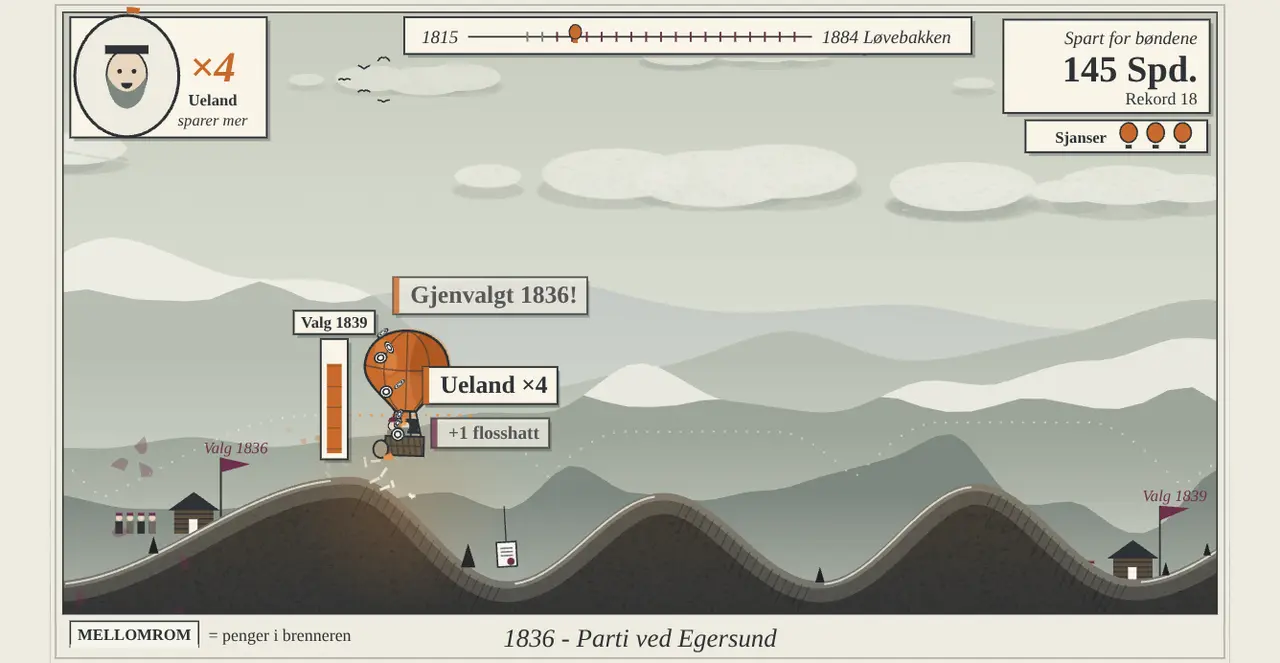
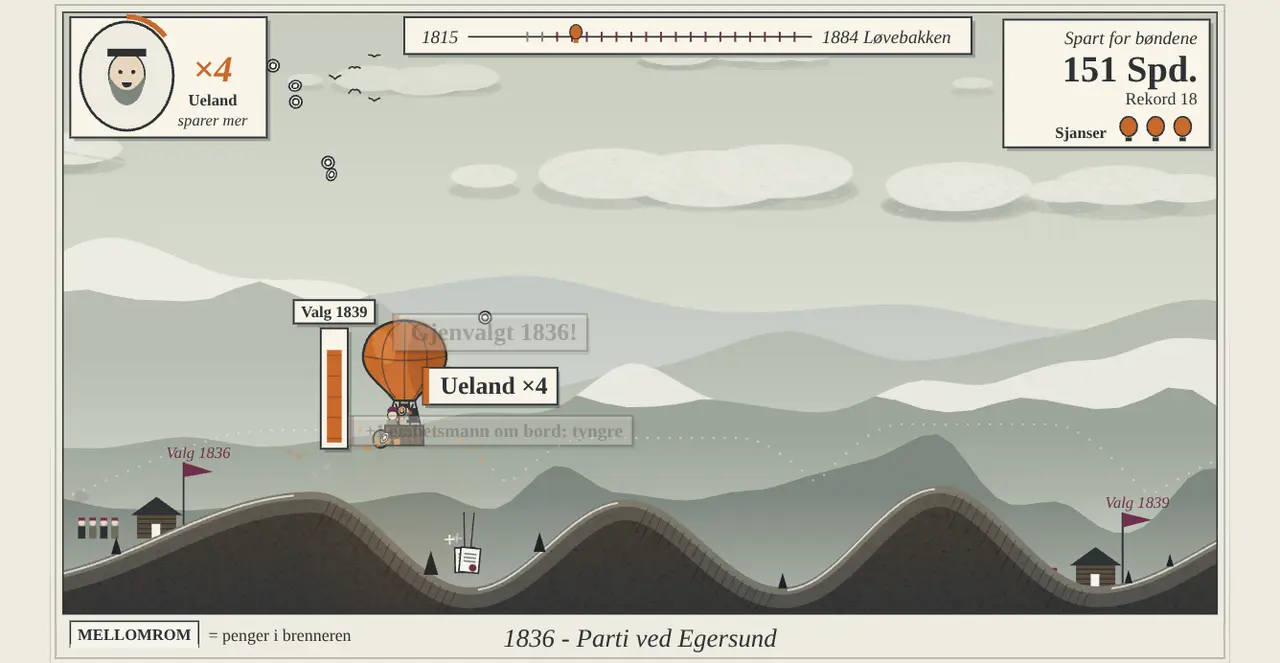
wip: pengeballongen forbedring 2
Claude-Session: https://claude.ai/code/session_019Juajf51GZzuqtF6gS9QzY

diff --git a/src/components/microgames/pengeballongen/hud.ts b/src/components/microgames/pengeballongen/hud.ts
@@ -82,7 +82,9 @@ export function tegnHud(ctx: CanvasRenderingContext2D, g: Game, fx: Fx, v: HudVa
     }
 
     // Oppe til høyre: Spart, stor og rolig på et kort. Spretter når mynter lander.
-    kort(ctx, 776, 16, 168, 76);
+    // Ett kort: Spart, rekord og sjansene nederst.
+    const medSjanser = g.år >= T.penger.førsteEkteValg - 0.5;
+    kort(ctx, 776, 16, 168, medSjanser ? 104 : 76);
     ctx.textAlign = 'right';
     ctx.fillStyle = P.kritt;
     ctx.font = `italic 15px ${FONT}`;
@@ -99,7 +101,7 @@ export function tegnHud(ctx: CanvasRenderingContext2D, g: Game, fx: Fx, v: HudVa
     ctx.fillStyle = P.kritt;
     ctx.fillText(v.rekord && !v.øving ? `Rekord ${spd(v.rekord)}` : '', 934, 85);
     // Sjansene: små ballonger under kortet (fra det første ekte valget).
-    if (g.år >= T.penger.førsteEkteValg - 0.5) sjanser(ctx, g, fx, tid);
+    if (medSjanser) sjanser(ctx, g, fx, tid);
 
     tidslinje(ctx, g);
     if (g.år >= T.ganger.fra - 0.3) portrett(ctx, g, fx, tid);
@@ -120,22 +122,20 @@ function sjanser(ctx: CanvasRenderingContext2D, g: Game, fx: Fx, tid: number) {
     ctx.textAlign = 'right';
     ctx.font = `bold 13px ${FONT}`;
     ctx.fillStyle = P.kritt;
-    kort(ctx, x0 - 74, 98, n * 22 + 82, 26);
-    ctx.fillStyle = P.kritt;
-    ctx.fillText('Sjanser', x0 - 8, 116);
+    ctx.fillText('Sjanser', x0 - 8, 112);
     for (let i = 0; i < n; i++) {
         const har = i < g.sjanser;
         const cx = x0 + 10 + i * 22;
         const puls = !har && i === g.sjanser ? Math.max(0, fx.blink) : 0;
         ctx.beginPath();
-        ctx.ellipse(cx, 108 - puls * 3, 7, 8, 0, 0, Math.PI * 2);
+        ctx.ellipse(cx, 103 - puls * 3, 7, 8, 0, 0, Math.PI * 2);
         ctx.fillStyle = har ? P.silke : 'transparent';
         if (har) ctx.fill();
         ctx.strokeStyle = har ? P.kritt : P.halv;
         ctx.lineWidth = 1.3;
         ctx.stroke();
         ctx.fillStyle = har ? P.kritt : P.halv;
-        ctx.fillRect(cx - 2.5, 118, 5, 3);
+        ctx.fillRect(cx - 2.5, 112, 5, 3);
     }
     void tid;
 }
@@ -158,6 +158,15 @@ function budsjett(ctx: CanvasRenderingContext2D, g: Game, fx: Fx, tid: number) {
     const rist = fare ? Math.sin(tid * 30) * 1.2 : 0;
     ctx.translate(rist, 0);
     kort(ctx, x - 3, y - 3, w + 6, h + 6);
+    // Bondetinget 1833: baren gløder i to år - bøndene har tatt over pengene.
+    const bonde = Math.max(0, 1 - (g.år - T.penger.førsteEkteValg) / 2);
+    if (bonde > 0 && g.år >= T.penger.førsteEkteValg) {
+        ctx.strokeStyle = P.silke;
+        ctx.lineWidth = 3 + 3 * Math.sin(tid * 10) ** 2;
+        ctx.globalAlpha = inn * bonde;
+        ctx.strokeRect(x - 7, y - 7, w + 14, h + 14);
+        ctx.globalAlpha = inn;
+    }
     // Fyllet: lyst og trygt, karmin når det nesten er tomt.
     const fh = (h - 4) * igjen;
     ctx.fillStyle = fare ? P.karmin : P.silke;
@@ -183,7 +192,7 @@ function budsjett(ctx: CanvasRenderingContext2D, g: Game, fx: Fx, tid: number) {
     }
     // Lappen over: når neste valg er.
     const neste = g.ter.valg[g.nesteValg];
-    const etikett = neste ? `Valg ${neste.år}` : 'Budsjett';
+    const etikett = bonde > 0.4 && g.år >= T.penger.førsteEkteValg ? 'Bondetinget' : neste ? `Valg ${neste.år}` : 'Budsjett';
     ctx.font = `bold 13px ${FONT}`;
     const ew = ctx.measureText(etikett).width + 12;
     const ex = x + w / 2 - ew / 2;

diff --git a/src/components/microgames/pengeballongen/juice.ts b/src/components/microgames/pengeballongen/juice.ts
@@ -3,7 +3,7 @@
 
 import { bakke } from './terrain';
 import { blink, rist, slipp, type Fx } from './fx';
-import { iBåndet, klaring } from './rules';
+import { iBåndet, iVeto, klaring } from './rules';
 import type { Lyd } from './sound';
 import type { Game, Hendelse } from './state';
 import { TUNING } from './tuning';
@@ -53,6 +53,15 @@ export function juice(g: Game, fx: Fx, j: Juice, lyd: Lyd, dt: number, landet: n
     }
     if (g.varme > 0.3 && Math.random() < g.varme * 0.5) {
         slipp(fx, 'glo', BX + r(-4, 4), y - 30, { vx: r(-30, 10), vy: r(-40, -10), maks: 0.5 });
+    }
+
+    // Kongens veto: nei-brev blåser mot ballongen fra høyre (motvinden).
+    if (iVeto(g) && Math.random() < dt * 14) {
+        slipp(fx, 'papir', 980, r(40, 420), { vx: r(-620, -420), vy: r(60, 140), maks: 2, vr: r(-6, 6) });
+    }
+    // Ueland over ×5: fartsstriper bak ballongen.
+    if (g.ganger > 5 && Math.random() < 0.6) {
+        slipp(fx, 'gnist', BX - 30, y - r(10, 90), { vx: r(-700, -500), vy: r(-10, 10), maks: 0.25, str: 1.4 });
     }
 
     // Skraping: gnister fra lyngen under kurven, flere jo større gangeren er.
@@ -123,6 +132,11 @@ export function påHendelse(h: Hendelse, g: Game, fx: Fx, lyd: Lyd) {
             if (h.ganger > h.fra) {
                 fx.gangerSprett = 1;
                 lyd.ganger(h.ganger);
+                if (h.ganger > 5) {
+                    lyd.under();
+                    rist(fx, 3);
+                    blink(fx, 0.25, P.silke);
+                }
                 for (let i = 0; i < h.ganger + 1; i++)
                     slipp(fx, 'mynt', BX + r(-10, 10), y - 10, { maks: r(0.5, 0.8), mål: { x: 132, y: 62 } });
             } else lyd.gangerNed();
@@ -218,6 +232,20 @@ export function påHendelse(h: Hendelse, g: Game, fx: Fx, lyd: Lyd) {
                 slipp(fx, 'papir', BX + r(-8, 8), y - 10, { maks: r(0.5, 0.8), mål: TELLER, vr: 8 });
             for (let i = 0; i < 8; i++)
                 slipp(fx, 'gnist', BX + r(-10, 10), y, { vx: r(-200, 200), vy: r(-260, -40), maks: 0.4 });
+            break;
+        case 'bondeting':
+            lyd.valg();
+            blink(fx, 0.4, P.silke);
+            fx.sprett = 1;
+            for (let i = 0; i < 12; i++)
+                slipp(fx, 'mynt', BX + r(-10, 10), y - 30, { maks: r(0.6, 0.9), mål: TELLER });
+            break;
+        case 'veto':
+            if (!h.slutt) {
+                lyd.stemtUt();
+                rist(fx, 6);
+                blink(fx, 0.35, P.karmin);
+            } else lyd.vinker();
             break;
         case 'roret':
             lyd.funn();

diff --git a/src/components/microgames/pengeballongen/tuning.ts b/src/components/microgames/pengeballongen/tuning.ts
@@ -16,8 +16,9 @@ export const TUNING = {
         slutt: 1884.5,
         /** Riksretten er over: fra her går tida sakte, og eleven har roret. */
         rorFra: 1884,
-        /** Sekunder per år i rorstrekket (1884,0-1884,5 = ca. 8 s). */
-        rorTempo: 16,
+        /** Sekunder per år i rorstrekket (1884,0-1884,5 = ca. 15 s): siste etappe der eleven
+         * styrer ned mot Løvebakken. */
+        rorTempo: 30,
     },
 
     // Roret etter riksretten: pil ned / S / trykk lavt styrer ballongen ned, gratis.
@@ -31,7 +32,7 @@ export const TUNING = {
         /** Stemmene i dalene: verdt så mye ganger Ueland-gangeren. */
         stemme: 40,
         /** Dalene i rorstrekket: antall, dybde (px under kammen) og kammen. */
-        daler: 3,
+        daler: 5,
         kamY: 360,
         dalY: 490,
         /** Fra kanten av kammen til bunnen av dalen (px vei): bratt. */
@@ -97,6 +98,8 @@ export const TUNING = {
     penger: {
         /** Spesidaler per sekund du holder (før kongeveiens flosshatter gjør brenneren dyrere). */
         perSek: 10,
+        /** Før Bondetinget i 1833 bestemte embetsmennene: brenneren koster mer (Spd/s). */
+        førBonde: 14,
         /** Spart per sekund når du slipper før Ueland kommer om bord (1833). */
         førUeland: 6,
         /** Spart per sekund når du slipper over nær-båndet fra 1833. I båndet: perSek x gangeren. */
@@ -129,8 +132,12 @@ export const TUNING = {
         trinn: 2,
         /** Over båndet faller gangeren ett trinn per så mange sekunder. */
         fall: 0.5,
-        maks: 5,
+        maks: 7,
     },
+
+    // Kongens veto: én valgperiode midt i runden blåser kongens nei-brev mot ballongen.
+    // Motvind = ballongen synker fortere, så hvert sekund med brenneren teller mer.
+    veto: { fra: 1854.5, til: 1860, synk: 30 },
 
     // Formene i hver valgperiode fra 1833 (rekkefølgen står i levels.ts).
     form: {
@@ -180,11 +187,11 @@ export const TUNING = {
     // Rangtrinn etter sparte spesidaler (stigende).
     ranger: [
         [0, 'Vararepresentant'],
-        [400, 'Bonderepresentant'],
-        [900, 'Sparebonde'],
-        [1500, 'Ueland-elev'],
-        [2200, 'Dalanes stolthet'],
-        [3000, 'Ueland selv'],
+        [500, 'Bonderepresentant'],
+        [1100, 'Sparebonde'],
+        [1900, 'Ueland-elev'],
+        [2800, 'Dalanes stolthet'],
+        [3800, 'Ueland selv'],
     ] as [number, string][],
 };
 

diff --git a/src/components/microgames/pengeballongen/coach.ts b/src/components/microgames/pengeballongen/coach.ts
@@ -44,7 +44,7 @@ export function coachHendelse(h: Hendelse, g: Game, c: Coach) {
             } else if (h.år === TUNING.penger.førsteEkteValg) {
                 text.banner('Bondestortinget!', P.silke);
             } else ved(`Gjenvalgt ${h.år}!`, -120, P.silke, true);
-            if (h.hatt) ved('+1 flosshatt', -40, P.karmin);
+            if (h.hatt) ved('+1 embetsmann om bord: tyngre', -40, P.karmin);
             break;
         }
         case 'funn': {
@@ -62,7 +62,12 @@ export function coachHendelse(h: Hendelse, g: Game, c: Coach) {
             break;
         case 'ganger':
             if (h.ganger > h.fra) {
-                ved(`Ueland ×${h.ganger}`, -60, P.silke, h.ganger >= 4, 1);
+                if (h.ganger > 5) ved(`Ueland ×${h.ganger}! Full fart!`, -60, P.silke, true, 1.4);
+                else ved(`Ueland ×${h.ganger}`, -60, P.silke, h.ganger >= 4, 1);
+                if (!sagt.has('hvem')) {
+                    sagt.add('hvem');
+                    ved('Ueland: bondeleder som sa nei til sløsing', -100, P.silke, false, 3.2);
+                }
                 if (h.ganger === 2)
                     text.beatOnce('ueland', BEAT.ueland.tittel, BEAT.ueland.tekst, {
                         at: c.vedBallong(-60),
@@ -78,6 +83,17 @@ export function coachHendelse(h: Hendelse, g: Game, c: Coach) {
                 sagt.add('sjanse');
                 text.lesson('sjanse', SJANSE_LÆRDOM, 1.5);
             }
+            break;
+        case 'bondeting':
+            ved('Bøndene har flertall!', -125, P.silke, true, 2.8);
+            ved(`Brenneren billigere: ${TUNING.penger.førBonde} → ${TUNING.penger.perSek} Spd. i sekundet`, -85, P.silke, false, 2.8);
+            break;
+        case 'veto':
+            if (!h.slutt) {
+                text.banner('Kongens veto!', P.karmin);
+                ved('Kongen stopper lovene: motvind!', -120, P.karmin, true, 2.6);
+                ved('Ballongen synker fortere - spar på brenneren', -80, P.karmin, false, 2.6);
+            } else ved('Vetoet er over: vinden løyer', -110, P.silke, true, 1.8);
             break;
         case 'stemme':
             ved(`Stemme! +${h.verdi}`, -60, P.silke, true, 1);

diff --git a/src/components/microgames/pengeballongen/rules.ts b/src/components/microgames/pengeballongen/rules.ts
@@ -29,7 +29,15 @@ export function synk(g: Game): number {
     const l = T.løft;
     const u = Math.min(1, Math.max(0, (g.år - T.fart.fraÅr) / (T.fart.tilÅr - T.fart.fraÅr)));
     const rolig = Math.min(1, l.rolig.fra + ((1 - l.rolig.fra) * (g.t - g.rolig)) / l.rolig.sekunder);
-    return (l.synkFra + (l.synkTil - l.synkFra) * u + g.hatter * l.perHatt) * rolig;
+    return (l.synkFra + (l.synkTil - l.synkFra) * u + g.hatter * l.perHatt + vetoSynk(g)) * rolig;
+}
+
+/** Kongens veto er i gang (motvind). */
+export const iVeto = (g: Game) => g.år >= T.veto.fra && g.år < T.veto.til;
+
+/** Ekstra synk fra motvinden under kongens veto. */
+function vetoSynk(g: Game): number {
+    return iVeto(g) ? T.veto.synk : 0;
 }
 
 /** Stigefart med full varme. Lavere jo høyere opp (tynn luft): å fly høyt koster mer. */
@@ -87,7 +95,7 @@ export const iBåndet = (g: Game) =>
  * (bondeflertallet) gjør den billigere.
  */
 export const kostnad = (g: Game) =>
-    T.penger.perSek *
+    (g.år < T.penger.førsteEkteValg ? T.penger.førBonde : T.penger.perSek) *
     (1 + T.veiskille.kongeveiKostnad * g.kongeHatter) *
     (g.olaboka ? 1 - T.penger.olaboka : 1);
 

diff --git a/src/components/microgames/pengeballongen/scene.ts b/src/components/microgames/pengeballongen/scene.ts
@@ -385,10 +385,18 @@ export function tegnHindre(ctx: CanvasRenderingContext2D, g: Game, tid: number) 
             ctx.lineTo(cx, kn.topp - 26);
             ctx.stroke();
             krone(ctx, cx, kn.topp - 32, 1.1);
-            ctx.fillStyle = P.karmin;
-            ctx.font = `italic 14px ${FONT}`;
+            // Skiltet: solid papir, mørk tekst (ikke blek kursiv mot himmelen).
+            const skilt = 'Kongeveien: +1 embetsmann';
+            ctx.font = `bold 14px ${FONT}`;
+            const sw = ctx.measureText(skilt).width + 14;
+            ctx.fillStyle = '#f8f4e8';
+            ctx.fillRect(cx - sw / 2, kn.topp - 66, sw, 22);
+            ctx.strokeStyle = P.karmin;
+            ctx.lineWidth = 1.5;
+            ctx.strokeRect(cx - sw / 2, kn.topp - 66, sw, 22);
+            ctx.fillStyle = P.kritt;
             ctx.textAlign = 'center';
-            ctx.fillText('Kongeveien: +1 flosshatt', cx, kn.topp - 48);
+            ctx.fillText(skilt, cx, kn.topp - 50);
         } else {
             const fall = Math.max(0, (g.x - (kn.x0 - 520)) / 220);
             if (fall < 2.2) {

diff --git a/src/components/microgames/pengeballongen/game.ts b/src/components/microgames/pengeballongen/game.ts
@@ -82,8 +82,14 @@ function slutt(g: Game, årsak: Årsak, brukt?: number) {
 
 export function update(g: Game, dt: number) {
     if (g.mode !== 'play' || dt <= 0) return;
+    const førÅr = g.år;
     g.t += dt;
     g.år = årFor(g.t);
+    // Regelskiftene midt i runden: Bondetinget (brenneren billigere) og kongens veto (motvind).
+    const krysset = (år: number) => førÅr < år && g.år >= år;
+    if (krysset(T.penger.førsteEkteValg)) g.hendelser.push({ slag: 'bondeting' });
+    if (krysset(T.veto.fra)) g.hendelser.push({ slag: 'veto', slutt: false });
+    if (krysset(T.veto.til)) g.hendelser.push({ slag: 'veto', slutt: true });
     g.x = veiVed(g.t);
 
     const b = brettFor(g.år);

diff --git a/src/components/microgames/pengeballongen/state.ts b/src/components/microgames/pengeballongen/state.ts
@@ -17,6 +17,8 @@ export type Hendelse =
     | { slag: 'sjanse'; årsak: Årsak; år: number; tilbake: number; straff: number }
     | { slag: 'stemme'; verdi: number }
     | { slag: 'roret' }
+    | { slag: 'bondeting' }
+    | { slag: 'veto'; slutt: boolean }
     | { slag: 'landet' };
 
 /** Det som lagres ved hvert valgflagg fra 1833, så en ny sjanse starter der. */

diff --git a/docs/microgames/briefer/pengeballongen.md b/docs/microgames/briefer/pengeballongen.md
@@ -462,3 +462,38 @@ ikke prøvd av en ekte elev. (3) Flink og nybegynner er langt fra hverandre (303
 elev ligger trolig midt imellom. (4) Rangene ble satt for runde 6; flink når nå «Ueland selv» (3000).
 (5) Likheten (0,46) er fortsatt ikke langt under grensen på 0,50.
 
+### Forbedring 2 (etter vurdering runde 2: Gøy 3, Utseende 4, Lærerikt 3, Lesbart 4, Unikt 4)
+
+Gøy sto på 3 i to runder, så kjerneløkka er endret med regelskifter midt i runden:
+(1) Bondetinget 1833 endrer spillet synlig: brenneren går fra 14 til 10 Spd. i sekundet (før 1833
+bestemte embetsmennene), med to solide lapper, mynter som flyr til Spart, blink og en budsjettbar
+som gløder med etiketten «Bondetinget». (2) Kongens veto 1854,5-1860 er det ene nye elementet
+halvveis: motvind (+30 px/s synk) og nei-brev som blåser mot ballongen fra høyre, banner og lapp
+«Kongen stopper lovene: motvind!». Eleven må fyre mer akkurat da, så budsjettet blir trangere.
+(3) Rorstrekket er nå ca. 15 s (rorTempo 16 -> 30) med fem daler i stedet for tre; filmbildet ved
+110 s viser nå roret i bruk (PIL NED, stemme i dalen). (4) Ueland-gangeren går til ×7: over ×5
+kommer fartsstriper bak ballongen, ekstra lyd, lite rykk, blink og lappen «Ueland ×7! Full fart!».
+Tekst og HUD: «flosshatt» er byttet med «embetsmann» (skiltet over kongeveien er nå et solid
+papirskilt med mørk tekst i stedet for blek kursiv), én linje om Ueland første gang ×n vises
+(«Ueland: bondeleder som sa nei til sløsing»), og sjansene står inne i Spart-kortet (ett kort).
+Rangene er hevet (500/1100/1900/2800/3800) fordi flink nå tjener mer.
+
+Reglene eleven må huske er fortsatt tre: hold = betal og stig, budsjettet må holde til valget, gli
+tett = Ueland. Bondetinget og vetoet er ting som skjer med eleven, ikke nye taster.
+
+Feel-lista: 1-4 var på plass før. Styrket nå: 1 (ganger over ×5 svarer med lyd, rykk og blink),
+3 (nei-brevene kommer inn fra høyre og blåser ut), 4 (Bondetinget sender mynter til Spart).
+
+Simulering (200 runder): grønn. flink 100 %, median 4262 (p10 3995, p90 4344); nybegynner 19 %,
+median 466; sløseren 0 % (23), gniten/passiv 18, tilfeldig 39. 34,2 valg per minutt, press
+0,30 -> 0,62 -> 0,74. Selvspill: flink vant med 2655 (brukte én sjanse sent, runden 215 s ekte tid),
+Chromebook JS p95 11,3 ms, alle porter grønne. Scene-audit ren. Likhet: petisjonen-3d 0,47.
+
+Prøvd som IKKE virket / valgt bort: å korte ned midten for å få roret inn ved 80 s ville flyttet hele
+terrenget og budsjettet per periode; i stedet ble rorstrekket lengre, så runden når filmbildet ved
+110 s. Uvær 1848 ble valgt bort til fordel for vetoet, som hører til embetsmannsstaten.
+
+Kjente svakheter: (1) Bondetinget ved 33 s spilltid havner mellom filmbildene (20 og 35 s), så
+vurdereren ser det ikke på filmen. (2) Vetoet er bare ekstra synk; det kan føles som «tyngre» mer enn
+som et nytt valg. (3) Flink og nybegynner er fortsatt langt fra hverandre (4262 mot 466). (4) Sverdrup-
+venner/riksrett-port fra vurderingen er ikke bygd. (5) Likheten 0,47 er nær grensen 0,50.

diff --git a/src/components/microgames/pengeballongen/KART.md b/src/components/microgames/pengeballongen/KART.md
@@ -45,6 +45,13 @@ Komponent: `../Pengeballongen.tsx` (skall, input, lagring, meny/pause/slutt-skje
     ballongen (`ror()`), brenneren svarer raskere (`fly()`), og tre bratte daler har en stemme
     i bunnen (40 x gangeren). Uten roret synker ballongen for sakte til å nå dem.
 
+11. Bondetinget (hendelse `bondeting` ved 1833): brenneren går fra `penger.førBonde` (14) til
+    `penger.perSek` (10) Spd/s, budsjettbaren gløder i to år med etiketten «Bondetinget».
+12. Kongens veto (`veto`, 1854,5-1860): motvind, `synk()` + `veto.synk`, nei-brev blåser fra høyre
+    (juice.ts). Hendelsen `veto` ved start og slutt.
+13. Gangeren går til ×7 (`ganger.maks`); over ×5 kommer fartsstriper, lyd, blink og «Full fart!».
+14. Rorstrekket er ca. 15 s (`rorTempo` 30) med fem daler, så filmbildet ved 110 s viser roret.
+
 ## Knapper
 
 - Flink-robotens poeng: `ganger.nær`, `ganger.vindu`, `ganger.trinn`. Vinduet er det som gjorde ×5 mulig.
